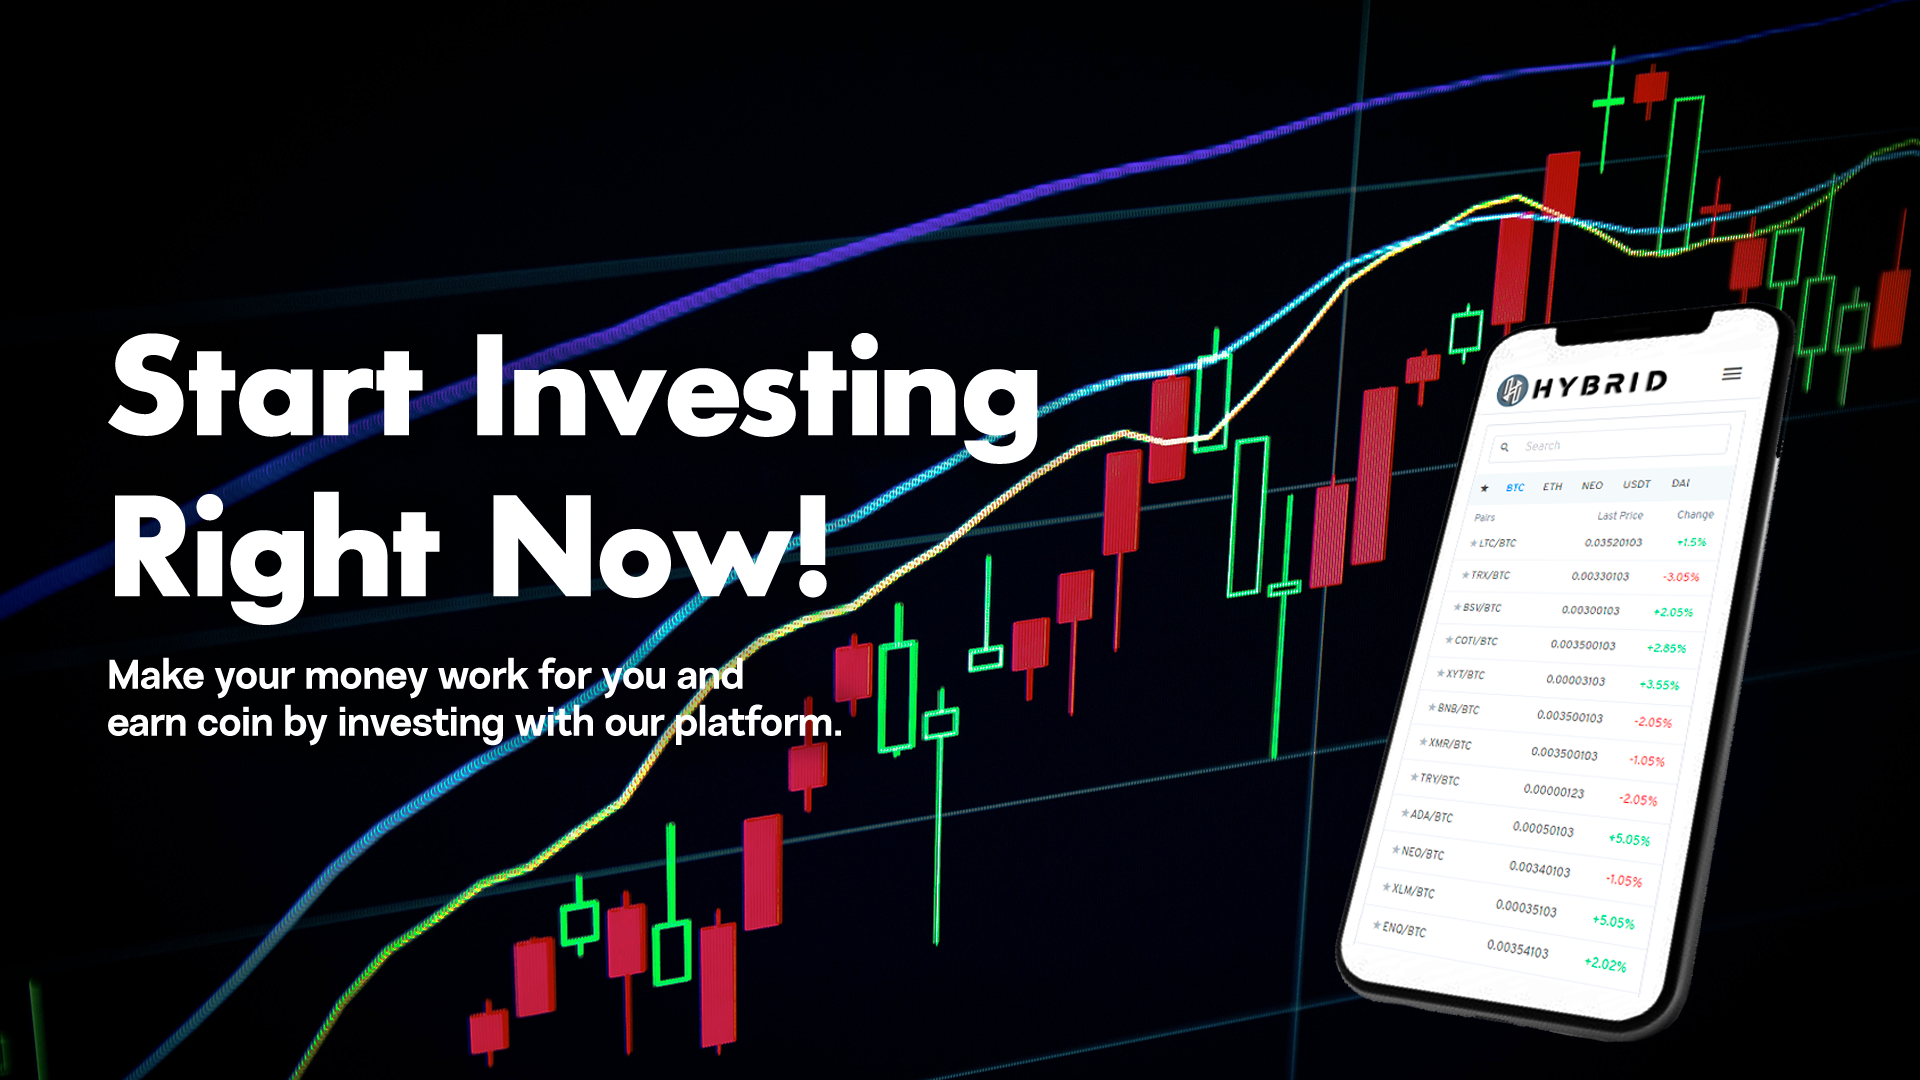
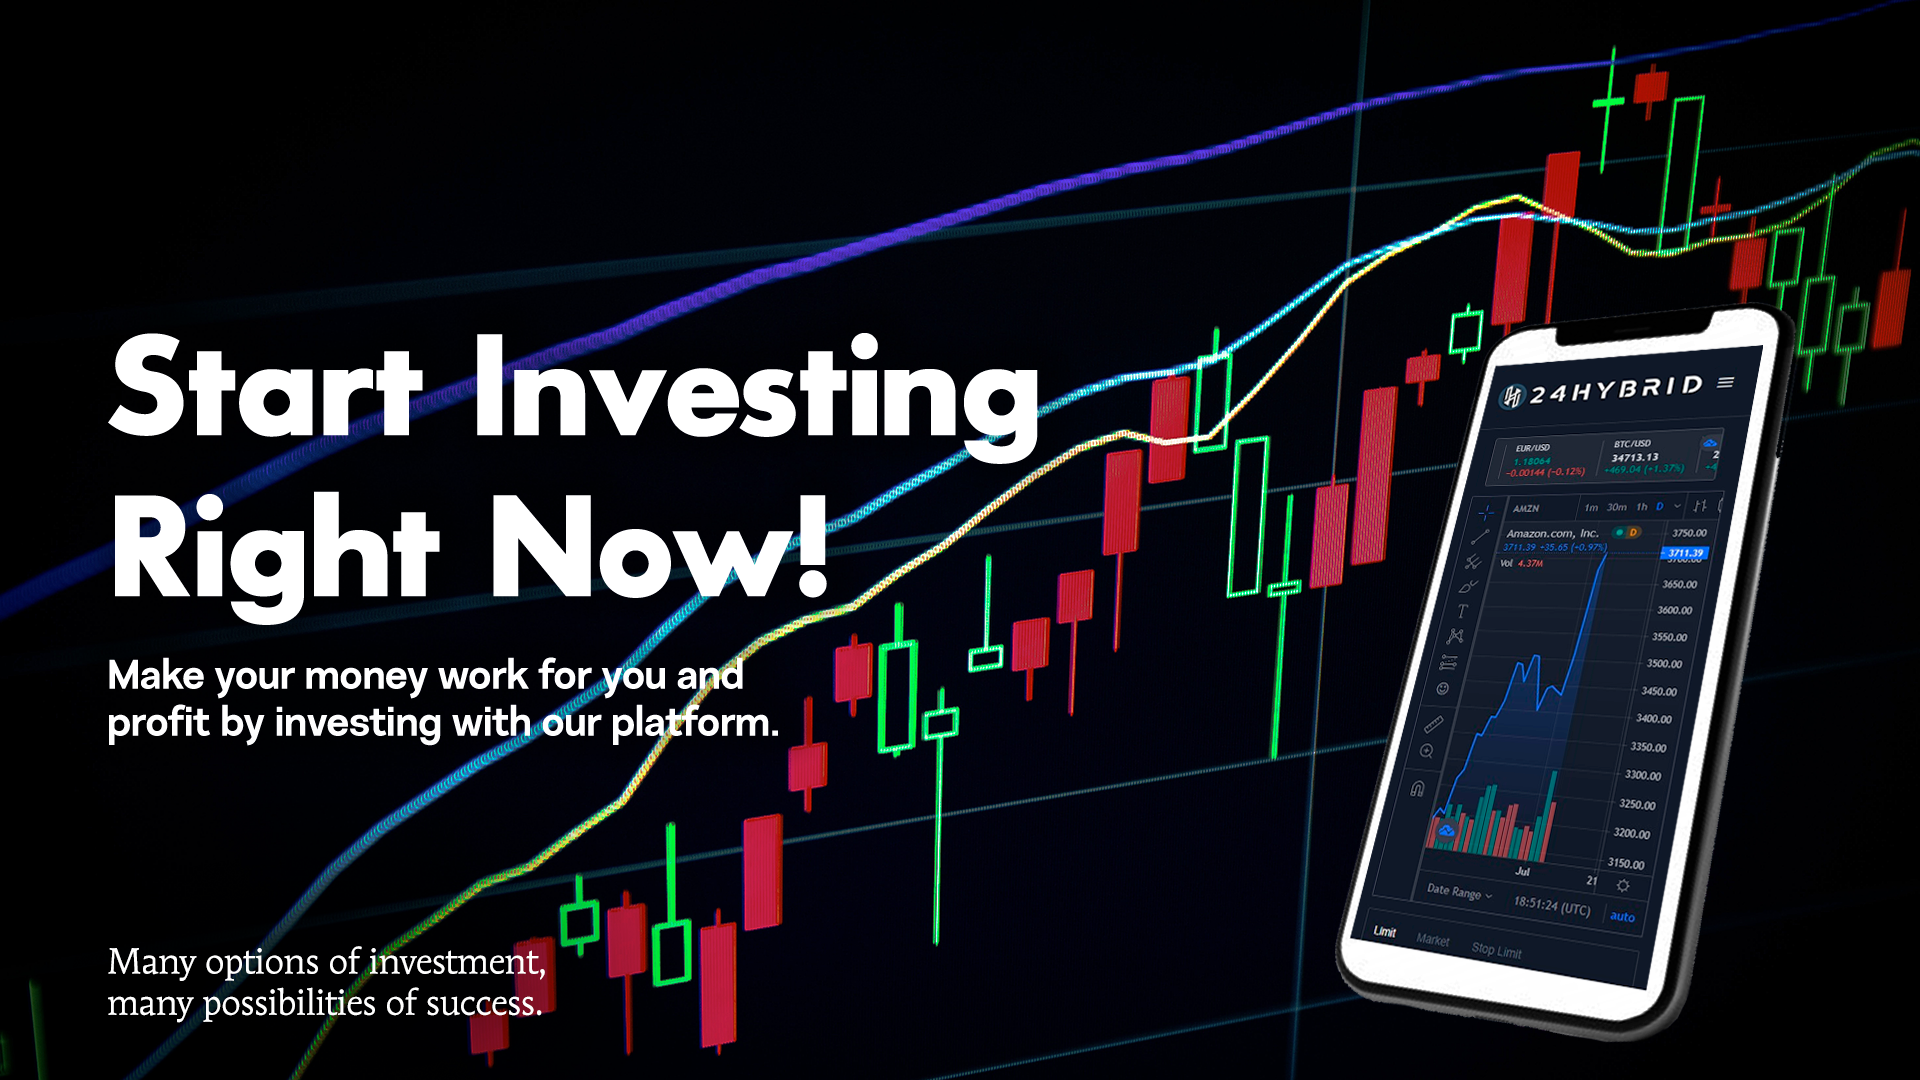
key art changes

diff --git a/Site-light/index.html b/Site-light/index.html
@@ -5,7 +5,7 @@
   <meta charset="UTF-8">
   <meta name="viewport" content="width=device-width, initial-scale=1.0">
   <meta http-equiv="X-UA-Compatible" content="ie=edge">
-  <title>Hybrid Investments</title>
+  <title>24 Hybrid Investments</title>
   <link rel="icon" href="assets/img/favicon.png" type="image/x-icon">
   <link rel="stylesheet" href="assets/css/style.css">
   <link rel="stylesheet" href="https://unpkg.com/swiper/swiper-bundle.min.css"/>
@@ -227,7 +227,7 @@
           <div class="swiper-container mySwiper">
               <div class="swiper-wrapper">
                   <div class="swiper-slide">
-                    <a href="#.html" target="_blank">
+                    <a href="#" target="_blank">
                       <img src="./assets/img/carousel1.png" alt="" class="img-fluid">
                     </a>
                   </div>
@@ -251,11 +251,11 @@
   
     <div class="d-flex justify-content-center" style="padding-top: 30px;">
       <h2>
-        Check live feeds of the exchange and the market.
+        Check live feeds of the exchange and the market
       </h2>
     </div>
     <div class="d-flex justify-content-center">
-      <p>Invest smartly. Stay up to date on trends regarding the most popular coins in the market.</p>
+      <p>Invest smartly. Stay up to date on trends regarding the most popular coins in the market</p>
     </div>
   
     <div class="markets ptb70">
@@ -1072,8 +1072,8 @@
           <!-- Sign Up -->
           <div class="card d-flex p-2 d-flex align-items-start">
             <div class="card-body">
-              <h5 class="card-title">If <strong>time = money</strong>, why waste time?</h5>
-              <p class="card-text">Sign up with Hybrid right now and start investing!</p>
+              <h5 class="card-title">If <strong>time = money</strong>, then why waste time?</h5>
+              <p class="card-text">Sign up with 24 Hybrid right now and start investing!</p>
             </div>
             <div class="card-body d-flex align-self-center">
               <a href="signup-light.html" class="d-flex btn-lg btn-primary text-decoration-none">Sign up</a>
@@ -1379,7 +1379,7 @@
             ABOUT US
           </h3>
           <h2 class="card-title text-center">
-            Hybrid Investments
+            24 Hybrid Investments
           </h2>
           <div class="row" style="padding-bottom: 40px;">
   
@@ -1404,9 +1404,9 @@
             <div class="col-sm-4">
               <div class="card" style="border: 0px;">
                 <div class="card-body text-center">
-                  <i class="fab fa-btc fa-5x text-primary" style="padding: 0.5em"></i>
-                  <h5 class="card-title">Crypto-ready</h5>
-                  <p class="card-text">We support most of the cryptocoins in the market, giving you the opportunity to invest in the future</p>
+                  <i class="fas fa-rocket fa-5x text-primary" style="padding: 0.5em"></i>
+                  <h5 class="card-title">Ready to go</h5>
+                  <p class="card-text">We support most of the coins in the market, giving you the opportunity to invest now in the future</p>
                 </div>
               </div>
             </div>
@@ -1423,6 +1423,7 @@
     <div class="container">
       <div class="row footer-top">
 				<div class="col-lg-12">
+          <!--
 					<ul id="social-networks">
             <li>
 						  <a target="_blank" href="#" class="text-decoration-none">
@@ -1449,38 +1450,16 @@
 							  <i class="fab fa-linkedin fa-3x" id="social-network"></i>
 							</a>
 						</li>							
-					</ul>
+					</ul>-->
 				</div>
 
 			<div class="col-12 footer-text">
-				<p class=""></p>
-
-<!--
-<aside id="text-2" class="widget widget_text">			<div class="text-light text-left"><p><strong>Risk warning:</strong> Contracts for Difference (‘CFDs’) are a complex financial product, with speculative character, the trading of which involves significant risks of loss of capital. Trading of leveraged CFD products carries significant risk. Trading CFDs, which are a marginal product, may result in the loss of your entire balance. Remember that leverage in CFDs can work both to your advantage and disadvantage. CFDs traders do not own, or have any rights to, the underlying assets. Trading CFDs is not appropriate for all investors. Past performance does not constitute a reliable indicator of future results. Future forecasts do not constitute a reliable indicator of future performance. Before deciding to trade, you should carefully consider your investment objectives, level of experience and risk tolerance. You should not deposit more than you are prepared to lose. Please ensure you fully understand the risk associated with the product envisaged and seek independent advice, if necessary.</p>
-
-<p style="margin-top: 60px;">The eXcentral Brand is authorised and regulated across a variety of jurisdictions:</p>
-<div class="container-fluid">
-<div class="row">
-<div class="col-md-6" style="margin-bottom: 15px;">SAVIRSKY HOLDINGS LIMITED is the holding company of OM BRIDGE (PTY) LTD and eXcentral International. eXcentral International is operated by OM BRIDGE (PTY) LTD (2016/479525/07), a South Africa investment firm, authorised and regulated by the Financial Sector Conduct Authority (FSCA) of South Africa with FSP License Number 48296. OM BRIDGE (PTY) LTD Address: Unit 6C3, 159 Rivonia Rd, Sinosteel Plaza, Morningside Ext 39, Sandton, Gauteng, 2146, South Africa. SPINELBRIDGE SERVICES LTD (HE 403254), the EU billing agent of OM BRIDGE PTY LTD, with a registered address Andrea Kariolou 38, Agios Athanasios, Ground Floor, 4102 Limassol, Cyprus.<br>
-Phone: +278 71 951005<br>
-Email: <a style="color: #7a6b46;" href="mailto:inquiries@excentral-int.com">inquiries@excentral-int.com</a></div>
-<div class="col-md-6" style="margin-bottom: 15px;">eXcentral Eu is a brand owned by Mount Nico Corp Ltd, a Cyprus Investment Firm, authorized and regulated by the Cyprus Securities and Exchange Commission with CIF license number 226/14. Mount Nico Corp Ltd’s registration number is HE307717. Is registered at Agiou Athanasiou, 66 Toumazis Linopetra Building 4102, Limassol, Cyprus.<br>
-Phone: +357 22 032220<br>
-Email: <a style="color: #7a6b46;" href="mailto:support@excentral-eu.com">support@excentral-eu.com</a></div>
-</div>
-</div>
-</div>
-		</aside>				</div>
-
-			</div>
-		</div>
-    </div>
--->					
-    <a href="#">
-      <img src="assets/img/logo-light.png" alt="" class="img-fluid" style="max-width: 250px; max-height: 300px;">
-    </a>
-    <p class="text-light" style="padding-top: 1.8em;">Hybrid Investments © 2021. <br>All Rights Reserved.</p>
-  </footer>
+        <a href="#">
+          <img src="assets/img/logo-light.png" alt="" class="img-fluid" style="max-width: 250px; max-height: 300px; padding-top: 30px;">
+        </a>
+        <p class="text-light" style="padding-top: 1.8em;">24 Hybrid Investments © 2021. <br>All Rights Reserved.</p>
+      </div>
+      </footer>
 
     <script src="assets/js/jquery-3.4.1.min.js"></script>
     <script src="assets/js/popper.min.js"></script>
